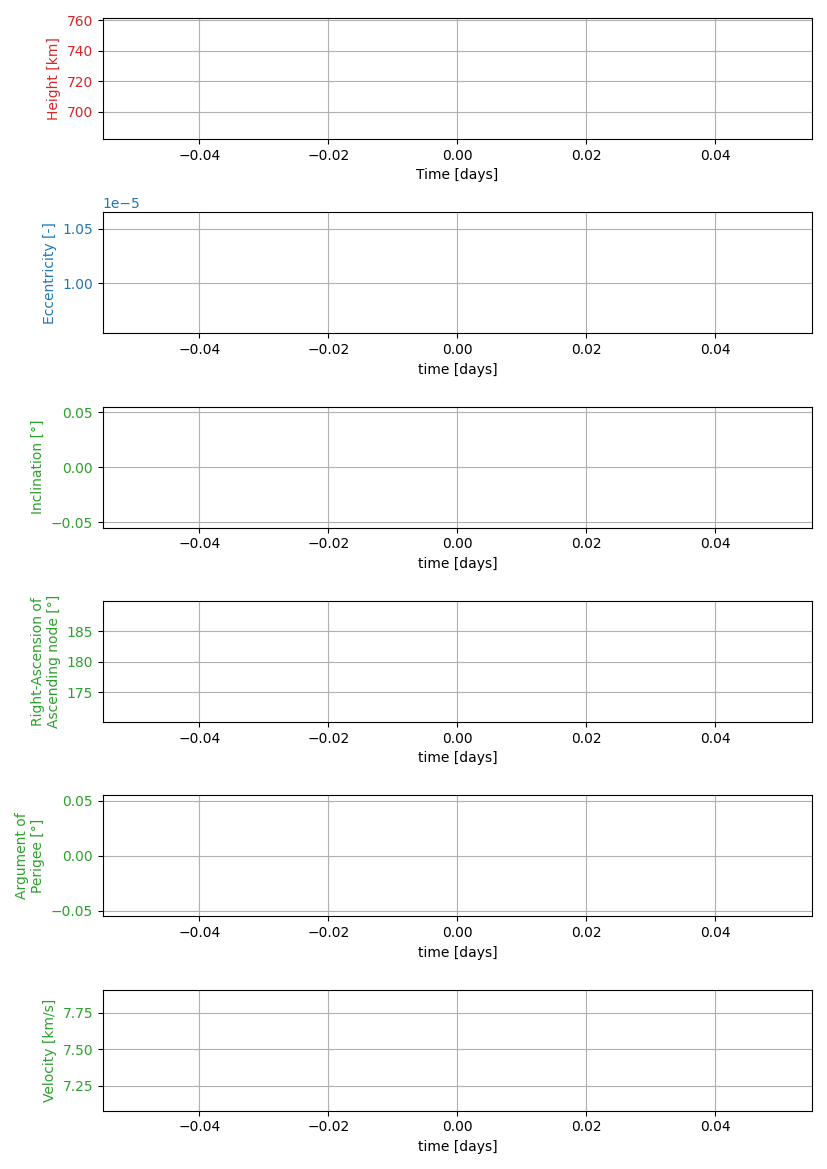
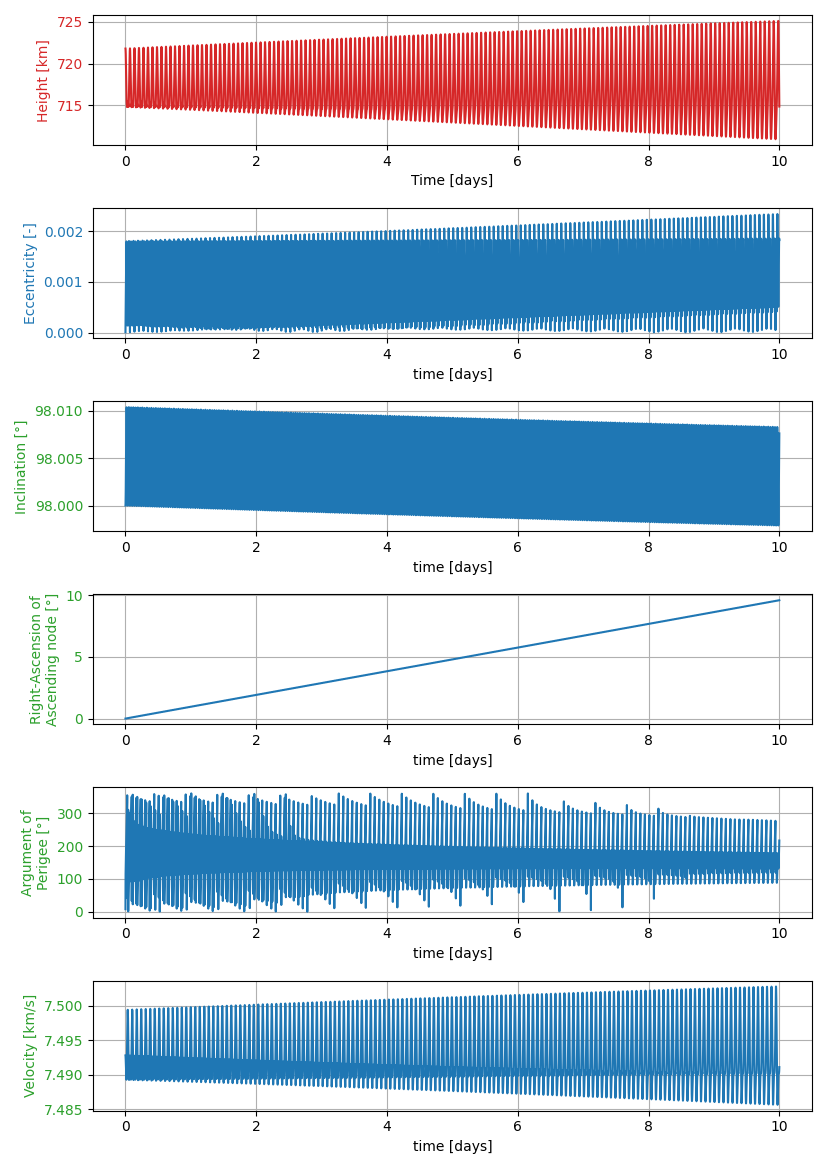
Fix issues in drag module

diff --git a/src/drag.py b/src/drag.py
@@ -4,8 +4,6 @@ from numpy.typing import ArrayLike
 from src.constants import R_EARTH
 from src.constants import SEC_SID_DAY
 from valladopy.astro.time.frame_conversions import ecef2teme, teme2ecef
-from valladopy.astro.time.data import iau80in
-import time
 
 
 def get_acc_drag(state: ArrayLike, sat: dict, date: float, frame) -> np.ndarray:
@@ -21,9 +19,7 @@ def get_acc_drag(state: ArrayLike, sat: dict, date: float, frame) -> np.ndarray:
     density = get_density(altitude=altitude)
 
     B_inv = (sat["area"]*sat["c_d"]*1e-6)/sat["mass"]
-
-    r_ecef, _, _ = teme2ecef(state[0:3], np.zeros(3), np.zeros(3), 0.0, date, 0.0, 0.0, 0.0, frame)
-    _, vel_atm, _ = ecef2teme(r_ecef, np.zeros(3), np.zeros(3), 0.0, date, 0.0, 0.0, 0.0, frame)
+    vel_atm = get_vel_atm(state=state[0:3])
     rel_vel = state[3:6] - vel_atm
 
     acc_drag = -0.5 * B_inv * density * np.linalg.norm(rel_vel)**2*(rel_vel/(np.linalg.norm(rel_vel)))
@@ -56,14 +52,14 @@ def get_density(altitude:float) -> float:
     return 0.0
    
 def get_vel_atm(state):
-    r_loc = math.sqrt(np.linalg.norm(state[0:3])**2-state[2]**2)
+    r_loc = math.sqrt(state[0]**2 + state[1]**2)
     c_loc = 2*math.pi*r_loc
     vel_atm_loc = c_loc/SEC_SID_DAY
     vel_vec_atm = state[0:3]
-    rot_mat = np.matrix([[0.0, -1.0, 0.0],
+    rot_mat = np.array([[0.0, -1.0, 0.0],
                          [1.0,  0.0, 0.0],
                          [0.0,  0.0, 0.0]])
-    vel_vec_atm = np.dot(rot_mat, vel_vec_atm)
+    vel_vec_atm = rot_mat.dot(vel_vec_atm)
     vel_vec_atm = vel_vec_atm * (vel_atm_loc/np.linalg.norm(vel_vec_atm))    
     return vel_vec_atm
    

diff --git a/pyprop.py b/pyprop.py
@@ -21,7 +21,7 @@ J2 = 0.001082626174
 J4 = -1.6198976e-06
 RAD2DEG = 180.0/math.pi
 SEC_IN_DAY = 3600*24
-iau80 = iau80in("/home/dluck/Development/pyprop/data")
+iau80 = iau80in("data")
 def deriv(state: ArrayLike, params: dict, date: float) -> np.ndarray:
     """_summary_
 